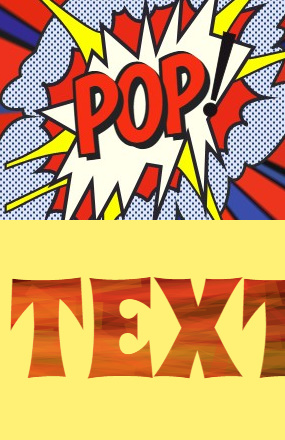
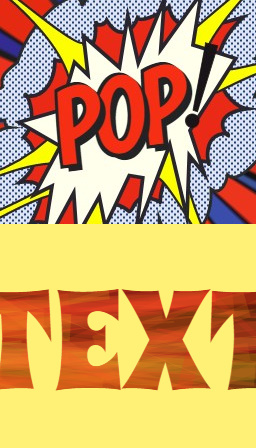
cont article styling

diff --git a/tailwind.config.js b/tailwind.config.js
@@ -28,7 +28,7 @@ module.exports = {
                 'half-screen': '50vh',
             },
             maxWidth: {
-                'artw': '27.5rem',
+                'artw': '16rem',
                 'cont': '2000px',
             },
             objectPosition: {
